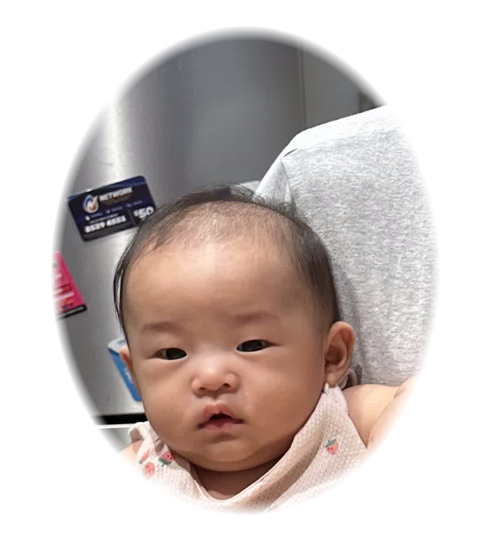
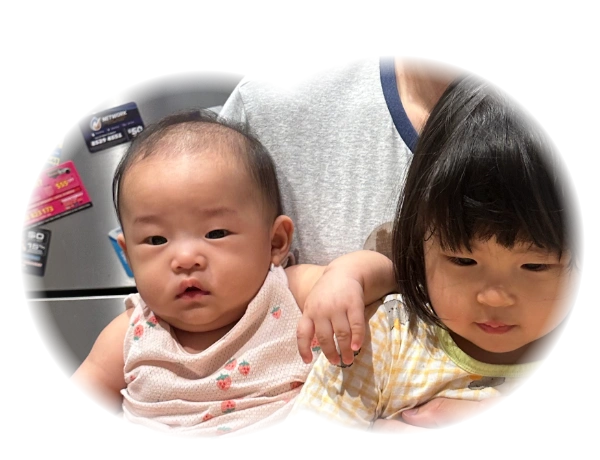
feat: Dad on card cover, Aria and Edwin inside scene, fix panel padding

diff --git a/index.html b/index.html
@@ -23,18 +23,18 @@
           <!-- Inside Spread (two panels: card-left and card-right) -->
           <section class="open-card-region" id="open-card" data-region="open-card" aria-label="Inside the card" hidden>
             <nav class="panel-indicator" aria-label="Card panels">
-              <button type="button" class="indicator-dot active" aria-label="Baby and Dad stage" data-panel="0"></button>
+              <button type="button" class="indicator-dot active" aria-label="Aria, Edwin and Dad stage" data-panel="0"></button>
               <button type="button" class="indicator-dot" aria-label="Dad's message and memories" data-panel="1"></button>
             </nav>
 
-            <!-- Left panel: Baby to Dad character scene -->
-            <div class="card-left" aria-label="Baby and Dad scene">
+            <!-- Left panel: Aria & Edwin to Dad character scene -->
+            <div class="card-left" aria-label="Aria, Edwin and Dad scene">
               <div class="character-stage">
                 <div class="portrait-container portrait--dad">
                   <img src="assets/portraits/dad.webp" alt="Dad smiling" class="portrait-img">
                 </div>
                 <div class="portrait-container portrait--baby">
-                  <img src="assets/portraits/baby.webp" alt="Baby smiling" class="portrait-img">
+                  <img src="assets/portraits/baby.webp" alt="Aria and Edwin smiling" class="portrait-img">
                   <div class="offered-carnation" aria-hidden="true">
                     <img src="assets/craft/carnation-stem.webp" alt="" class="carnation-stem-img">
                     <img src="assets/craft/carnation-petals.webp" alt="" class="carnation-petals-img">
@@ -80,10 +80,10 @@
           <!-- Folding Front Cover -->
           <section class="card-cover" aria-label="Card cover">
             <div class="cover-cutout-frame">
-              <img src="assets/portraits/baby.webp" alt="Baby smiling" class="cover-baby-img">
+              <img src="assets/portraits/dad.webp" alt="Dad smiling" class="cover-baby-img">
             </div>
             <p class="card-kicker">For the best Dad</p>
-            <h1>I made this for you, Dad.</h1>
+            <h1>We made this for you, Dad.</h1>
             <button class="open-card" type="button">
               <span>Open your card</span>
               <span aria-hidden="true" class="arrow-icon">›</span>

diff --git a/styles/characters.css b/styles/characters.css
@@ -25,9 +25,9 @@
 
 /* Dad: positioned on the right of the left panel */
 .portrait--dad {
-  right: clamp(4%, 6vw, 12%);
+  right: clamp(2%, 3.5vw, 6%);
   bottom: clamp(16%, 20%, 25%);
-  width: clamp(125px, 25vw, 185px);
+  width: clamp(120px, 24vw, 175px);
   z-index: 2;
   opacity: 0;
   transform: translateY(12px) scale(0.96);
@@ -39,37 +39,34 @@ main:not([data-view="closed"]) .portrait--dad {
   transform: translateY(0) scale(1);
 }
 
-/* Baby: enters from left, moves to Dad, raises carnation */
+/* Two Kids (Aria & Edwin): enters from left, moves to Dad, raises carnation */
 .portrait--baby {
-  left: clamp(2%, 4vw, 8%);
-  bottom: clamp(14%, 17%, 22%);
-  width: clamp(105px, 21vw, 155px);
+  left: clamp(2%, 3.5vw, 5%);
+  bottom: clamp(14%, 18%, 23%);
+  width: clamp(130px, 26vw, 185px);
   z-index: 3;
   opacity: 0;
-  transform: translateX(-100px) rotate(-6deg);
+  transform: translateX(-80px) rotate(-4deg);
 }
 
 main:not([data-view="closed"]) .portrait--baby {
-  animation: babyEnters 2.8s cubic-bezier(0.25, 1, 0.5, 1) 0.3s forwards;
+  animation: babyEnters 2.6s cubic-bezier(0.25, 1, 0.5, 1) 0.3s forwards;
 }
 
 @keyframes babyEnters {
   0% {
     opacity: 0;
-    transform: translateX(-80px) rotate(-8deg);
+    transform: translateX(-70px) rotate(-5deg);
   }
   30% {
     opacity: 1;
   }
-  65% {
-    transform: translateX(clamp(40px, 9vw, 85px)) rotate(2deg);
-  }
-  85% {
-    transform: translateX(clamp(35px, 8vw, 75px)) rotate(-1deg);
+  70% {
+    transform: translateX(clamp(16px, 3.5vw, 32px)) rotate(2deg);
   }
   100% {
     opacity: 1;
-    transform: translateX(clamp(38px, 8.5vw, 80px)) rotate(0deg);
+    transform: translateX(clamp(14px, 3vw, 26px)) rotate(0deg);
   }
 }
 

diff --git a/src/main.js b/src/main.js
@@ -32,7 +32,7 @@ function focusWithoutScrolling(element) {
 
 function focusTarget(nextState, elements) {
   if (nextState.view === 'closed') return elements.open;
-  if (nextState.view === 'open') return elements.reveal;
+  if (nextState.view === 'open') return elements.dots?.[0] || elements.openRegion;
   if (nextState.view === 'strip') return elements.play;
   if (nextState.filmStatus === 'paused') return elements.pause;
   if (nextState.filmStatus === 'ended') return elements.replay;
@@ -91,12 +91,17 @@ export function renderState(nextState, elements, { focus = true } = {}) {
 
   if (focus) {
     if (nextState.view === 'open') {
+      if (openRegion && typeof openRegion.scrollTo === 'function') {
+        openRegion.scrollTo({ left: 0, behavior: 'instant' });
+      }
       startInsideAnimation().then(() => {
         // On mobile, smoothly slide to the message panel after the animation
         if (openRegion && rightPanel && window.innerWidth < 768) {
           openRegion.scrollTo({ left: rightPanel.offsetLeft, behavior: 'smooth' });
+          setTimeout(() => focusWithoutScrolling(elements.reveal), 400);
+        } else {
+          focusWithoutScrolling(elements.reveal);
         }
-        focusWithoutScrolling(elements.reveal);
       });
     } else {
       if (['strip', 'film'].includes(nextState.view)) {

diff --git a/styles/card.css b/styles/card.css
@@ -213,6 +213,10 @@ main:not([data-view="closed"]) .card-cover {
   inset: 0;
   width: 100%;
   height: 100%;
+  padding: 0;
+  gap: 0;
+  border: none;
+  box-shadow: none;
   border-radius: 8px;
   overflow: hidden;
   z-index: 2;
@@ -239,6 +243,8 @@ main:not([data-view="closed"]) .card-cover {
 .card-right {
   flex: 0 0 100%;
   width: 100%;
+  min-width: 100%;
+  max-width: 100%;
   height: 100%;
   scroll-snap-align: start;
   position: relative;
